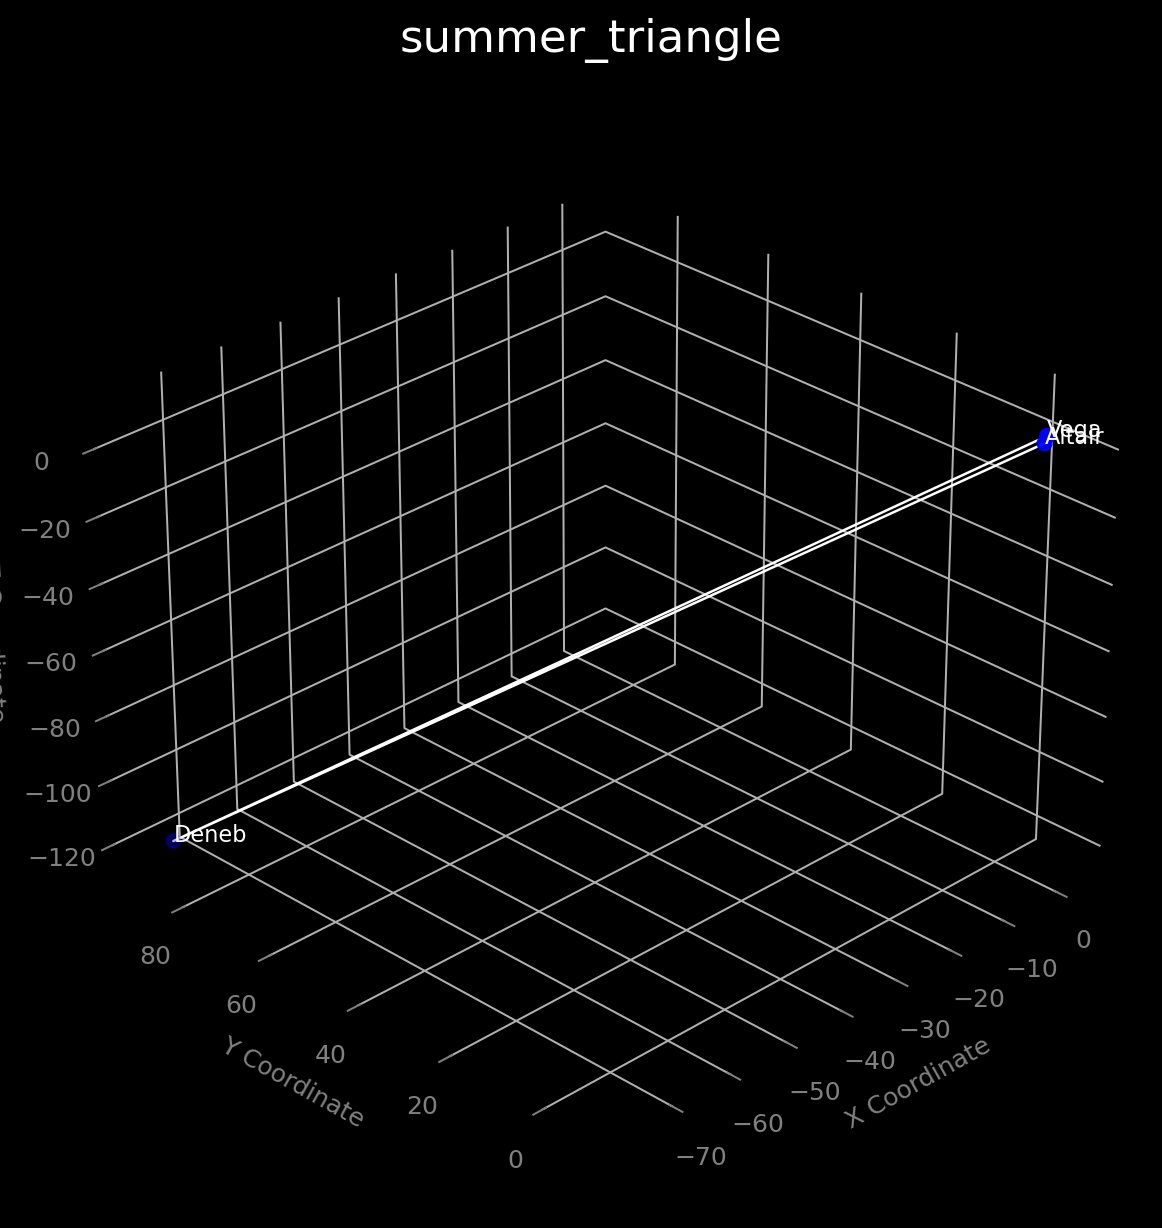
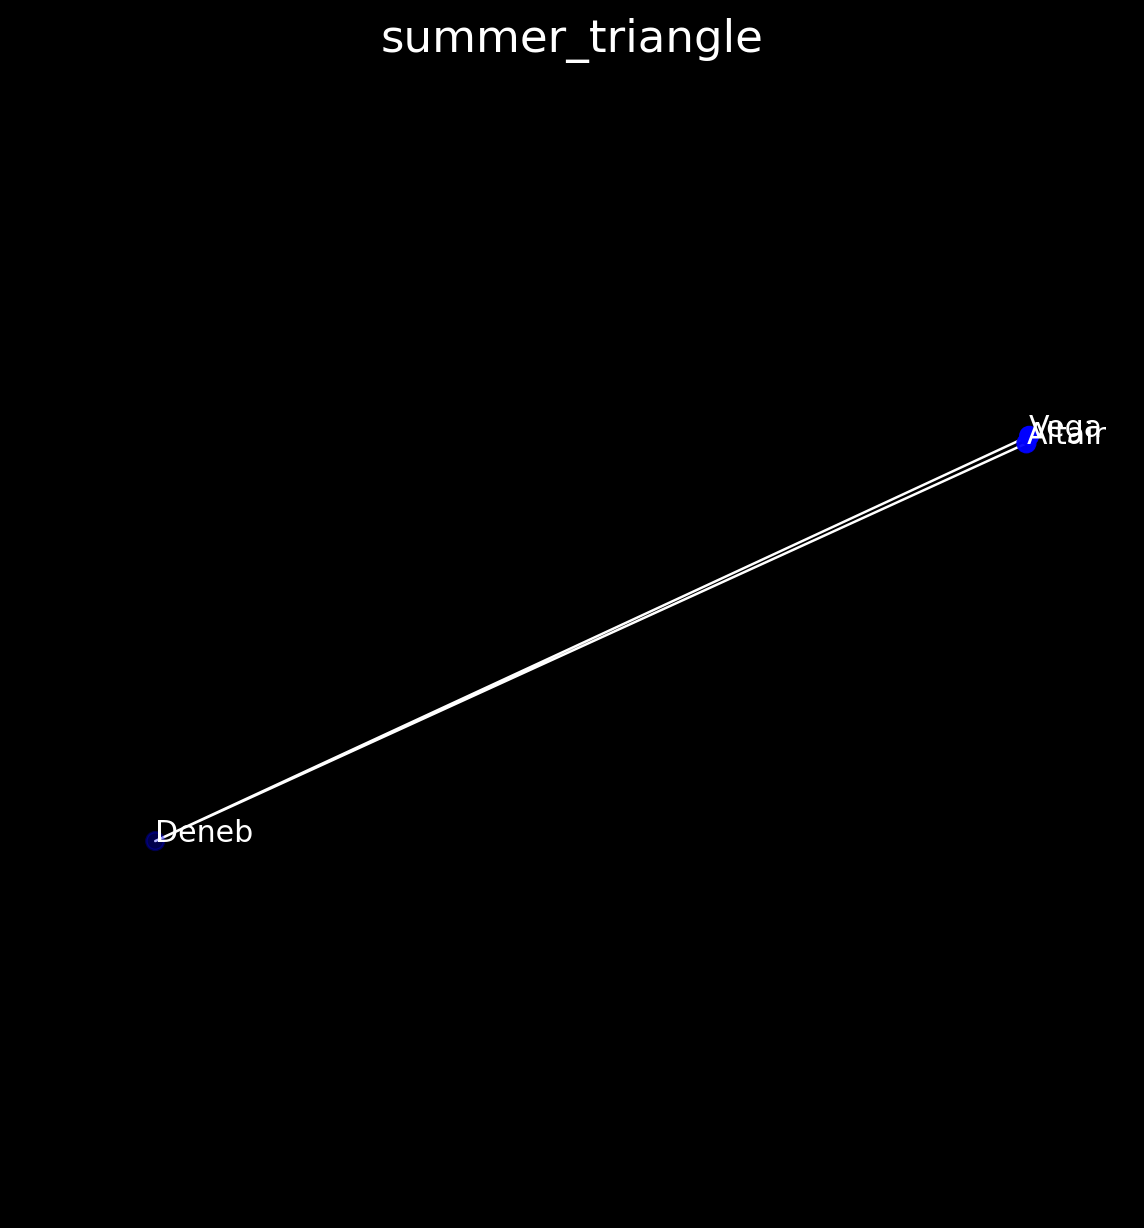
gif optimisation and no grid lines by default

diff --git a/src/plotter.py b/src/plotter.py
@@ -5,10 +5,11 @@ import io
 import cv2
 import numpy as np
 import os
+from PIL import Image
 
 def star_size(x):
     if len(x) < 10:
-        return 100
+        return 50
     else:
         return 15
 
@@ -43,7 +44,7 @@ def combine_labels(x, y, labels, threshold=0.05):
 
     return combined_labels
 
-def plot_3d_scatter(x, y, z, rgb, star_names=None, title=None, view=None, lines=True, grid_lines=True):
+def plot_3d_scatter(x, y, z, rgb, star_names=None, title=None, view=None, lines=True, no_grid_lines=True, label_combining=True):
  
     # create figure
     fig = plt.figure(figsize=(10, 8))
@@ -61,9 +62,14 @@ def plot_3d_scatter(x, y, z, rgb, star_names=None, title=None, view=None, lines=
 
     # add annotations if star names are provided
     if star_names is not None:
-        combined_star_names = combine_labels(x, y, list(star_names), threshold=1)
-        for i in range(len(x)):
-            ax.text(x[i], y[i], z[i], combined_star_names[i], color='white', fontsize=20)
+        star_names_fontsize = 12
+        if label_combining:
+            combined_star_names = combine_labels(x, y, list(star_names), threshold=1)
+            for i in range(len(x)):
+                ax.text(x[i], y[i], z[i], combined_star_names[i], color='white', fontsize=star_names_fontsize)
+        else:
+            for i in range(len(x)):
+                ax.text(x[i], y[i], z[i], star_names[i], color='white', fontsize=star_names_fontsize)
 
     # draw lines connecting the stars
     if lines == True:
@@ -84,7 +90,7 @@ def plot_3d_scatter(x, y, z, rgb, star_names=None, title=None, view=None, lines=
             draw_line_between_stars(ax, star_names, star_coords, 'Altair', 'Vega')
 
     # handling grid lines and axis labels
-    if not grid_lines:
+    if no_grid_lines:
         # hide axis labels
         ax.set_xlabel('')
         ax.set_ylabel('')
@@ -155,7 +161,7 @@ def plot_3d_scatter(x, y, z, rgb, star_names=None, title=None, view=None, lines=
 
 def img_from_fig(fig):
     buf = io.BytesIO()
-    fig.savefig(buf, format='png', dpi=180)
+    fig.savefig(buf, format='png', dpi=90)
     buf.seek(0)
     img_arr = np.frombuffer(buf.getvalue(), dtype=np.uint8)
     buf.close()
@@ -177,7 +183,7 @@ def capture_gif(title, fig, ax, start_view):
     saves as gif
     '''
     # frames per second
-    fps = 15
+    fps = 30
     
     # initial gif pauses on asterism/constellation
     pause_duration_sec = 2
@@ -202,7 +208,7 @@ def capture_gif(title, fig, ax, start_view):
 
     # find the amount of steps needed for transition
     steps_elev = abs(end_elev - start_elev)
-    for step in range(steps_elev + 2):
+    for step in range(steps_elev + 1):
 
         # example halfway: elev = = -42 + (30 - (-42)) * 36 / 72 = -6
         elev = start_elev + (end_elev - start_elev) * step / steps_elev
@@ -222,7 +228,7 @@ def capture_gif(title, fig, ax, start_view):
     '''
     
     # rotate 360 degrees
-    for angle in range(start_azim, start_azim +  360, 2):
+    for angle in range(start_azim, start_azim +  360, 1):
         ax.view_init(elev=30, azim=angle)
         img = img_from_fig(fig)
         frames.append(img)
@@ -237,7 +243,7 @@ def capture_gif(title, fig, ax, start_view):
     '''
 
     # transistion to start_elev
-    for step in range(steps_elev + 2):
+    for step in range(steps_elev + 1):
         elev = end_elev + (start_elev - end_elev) * step / steps_elev
         ax.view_init(elev=elev, azim=start_azim)
         img = img_from_fig(fig)
@@ -255,4 +261,3 @@ def capture_gif(title, fig, ax, start_view):
 
     # save frames as a gif with infinite loop
     imageio.mimsave(gif_path, frames, fps=fps, loop=0)
-

diff --git a/src/asterisms.py b/src/asterisms.py
@@ -51,7 +51,7 @@ def big_dipper():
     df = star_data_calculator(df, ordered_star_names)
 
     # plots the Big Dipper asterism
-    fig, ax, view = plot_3d_scatter(df.x_coordinate.values, df.y_coordinate.values, df.z_coordinate.values, df.rgb_color.values, df.common_name.values, title=title, view=view, grid_lines=False)
+    fig, ax, view = plot_3d_scatter(df.x_coordinate.values, df.y_coordinate.values, df.z_coordinate.values, df.rgb_color.values, df.common_name.values, title=title, view=view)
 
     return title, fig, ax, view
 
@@ -133,6 +133,6 @@ def orions_belt():
 
     df = star_data_calculator(df, ordered_star_names)
 
-    fig, ax, view, = plot_3d_scatter(df.x_coordinate.values, df.y_coordinate.values, df.z_coordinate.values, df.rgb_color.values, df.common_name.values, title=title, view=view)
+    fig, ax, view, = plot_3d_scatter(df.x_coordinate.values, df.y_coordinate.values, df.z_coordinate.values, df.rgb_color.values, df.common_name.values, title=title, view=view, label_combining=False)
 
     return title, fig, ax, view

diff --git a/src/main.py b/src/main.py
@@ -6,18 +6,18 @@ from plotter import capture_gif
 from matplotlib import pyplot as plt
 
 # flags for toggling gif capture and plot display
-capture_gif_flag = False
-show_plot_flag = True
+capture_gif_flag = True
+show_plot_flag = False
 
 # flags for processing asterisms and constellations
 process_asterisms = True
-process_constellations = False
-process_all_stars = False
+process_constellations = True
+process_all_stars = True
 
 # lists of functions for asterisms and constellations#
-#asterism_functions = [big_dipper, little_dipper, summer_triangle, orions_belt]
+asterism_functions = [big_dipper, little_dipper, summer_triangle, orions_belt]
 
-asterism_functions = [big_dipper] # for testing
+#asterism_functions = [big_dipper] # for testing
 
 constellation_functions = [ursa_major, ursa_minor]
 
